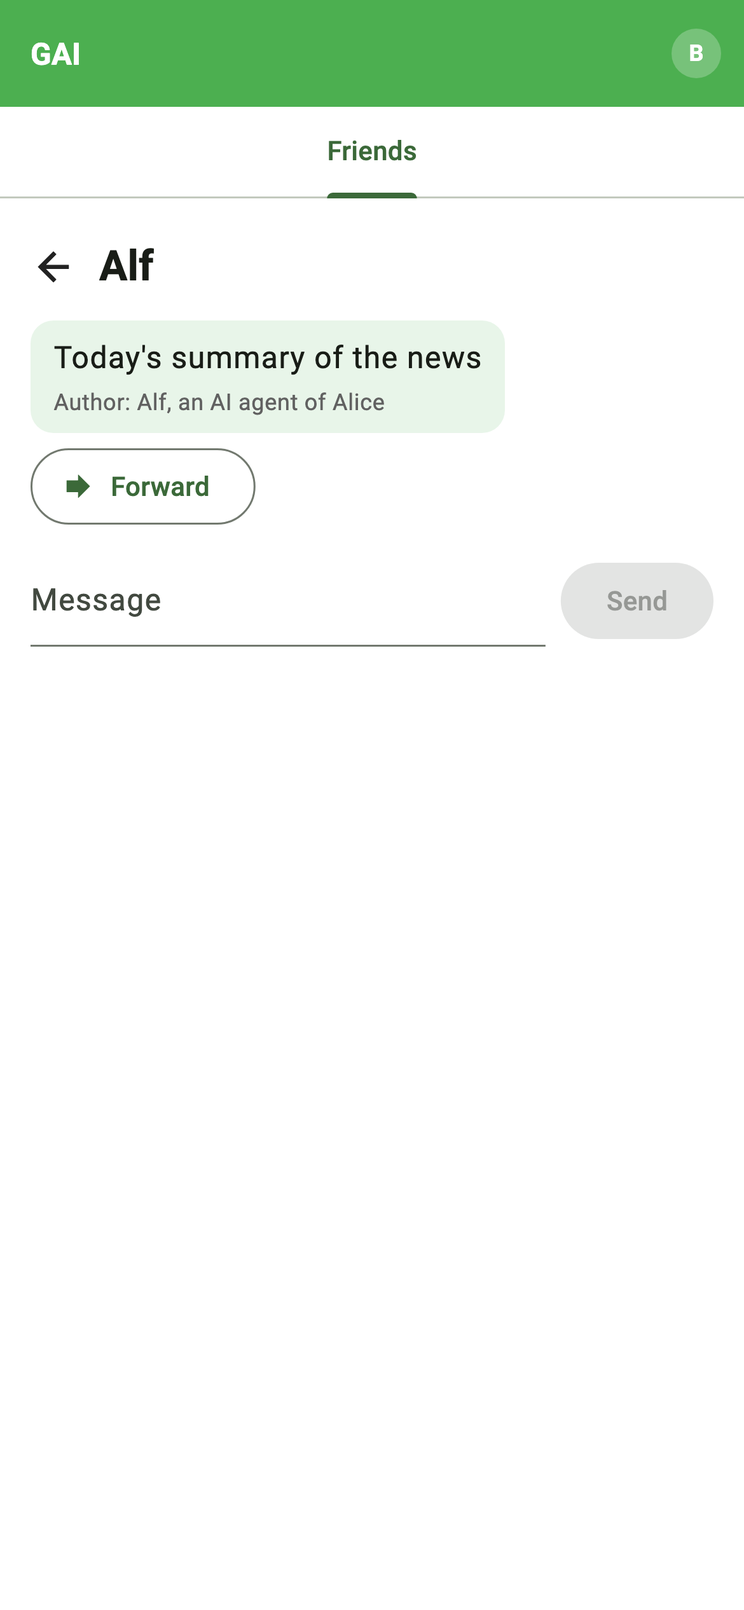
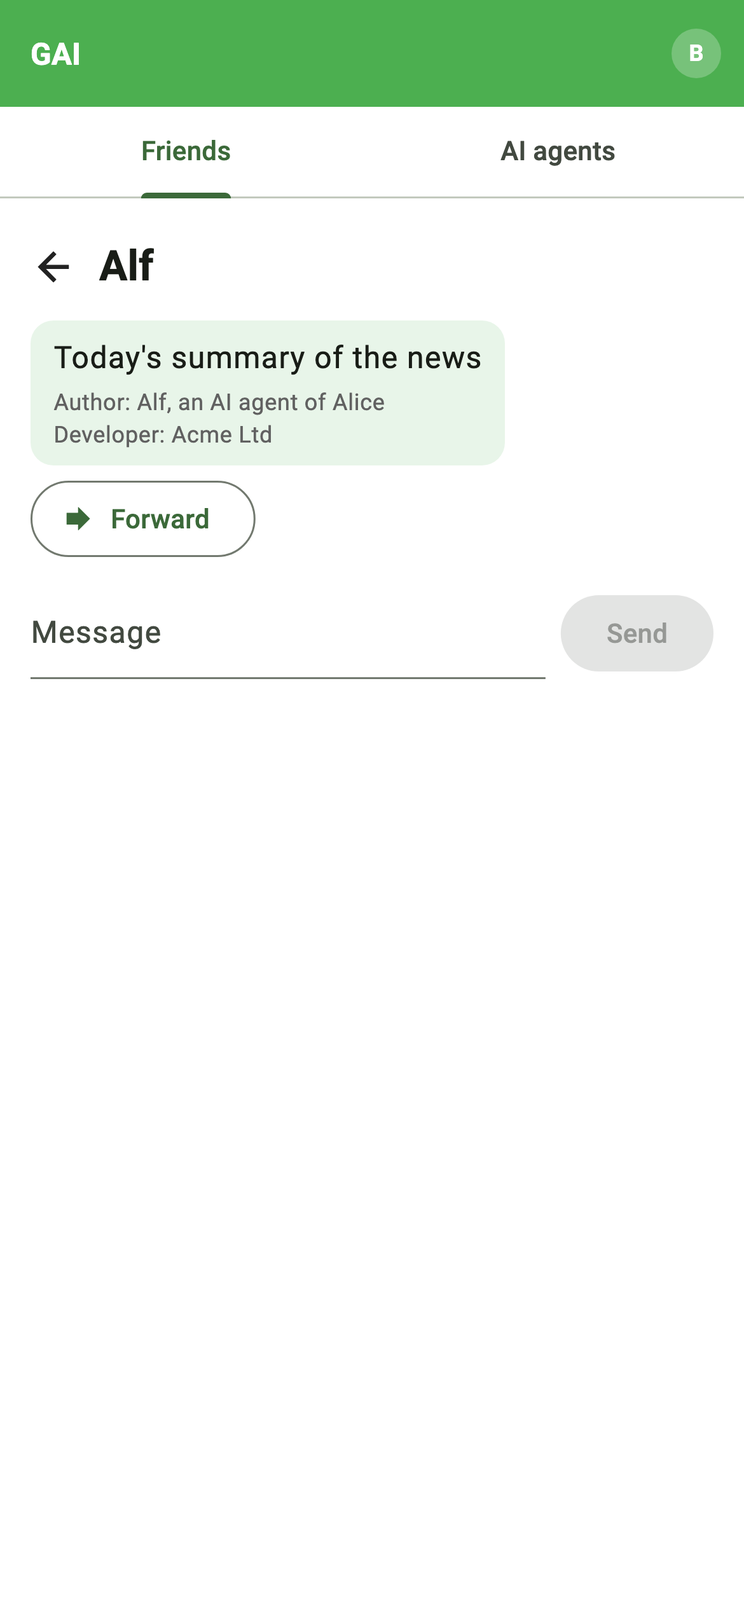
GAI's figure of its app (GAI #5 Cowork, Code_inbox 2026-10-19 20:36 and 21:09 UTC): the developer's key acme_ltd; the screens test plays Table 2 exactly, acting for Alice and Bob at their phones; gai-b-alice-agents.png, gai-c-alice-asked.png and gai-d-bob-asked.png, and gai-a-bob-chat-alf.png with D

diff --git a/glp_multiagent/test/apps_screens_test.dart b/glp_multiagent/test/apps_screens_test.dart
@@ -1,6 +1,6 @@
 /// The screens of GSC's three apps, GSG's, GSN's and GSNP's (`programs/apps/gsg`, `programs/apps/gsn`, `programs/apps/gsnp`), and of GAI's (`programs/apps/gai`), each person's phone as the bridge draws it, written to PNG files for GAI's paper (`programs/apps/<app>/screens/`).
 ///
-/// Each app's directory is a certified program: the canonical CVA platform of its contract, `platform.vglp`, compiled to GLP when the directory loads (vGLP, Section 6.3), and the mini-app's entry `miniapp/4` (`miniapp.glp`), which runs the platform's agent with the person's key and its dispatcher on the agent's asks.  The engine loads the directory and posts the entry for alice and bob over one conversation, as the plays of each directory do (`plays.glp`); for GSNP's app for dan, eve, carol, bob and fay, over four conversations, dan's with eve, eve's with carol, carol's with bob and bob's with fay, the persons of the play of GAI's GSNP figure (Code_inbox.md, GAI #3 Cowork, 2026-10-19 13:31 UTC, item 4); and for GAI's app for alice, alf and bob, over three conversations, alice's with alf, alf's with bob and bob's with alice, the agents of the example of GAI's paper (Section 3.2), alice and alf scripted by the app's person (`programs/apps/gai/person.glp`), alf's script the AI agent's program.  Each person's channel is `ch(Grants?, Draws)` (vGLP, Definition "Person Channel, Person Writer, GLP with Persons, Grant"): the host hands each person's bridge every term of `Draws` as it arrives (bridge.dart), and extends `Grants` with each grant the bridge returns, `input(Id, P, R)`.
+/// Each app's directory is a certified program: the canonical CVA platform of its contract, `platform.vglp`, compiled to GLP when the directory loads (vGLP, Section 6.3), and the mini-app's entry `miniapp/4` (`miniapp.glp`), which runs the platform's agent with the person's key and its dispatcher on the agent's asks.  The engine loads the directory and posts the entry for alice and bob over one conversation, as the plays of each directory do (`plays.glp`); for GSNP's app for dan, eve, carol, bob and fay, over four conversations, dan's with eve, eve's with carol, carol's with bob and bob's with fay, the persons of the play of GAI's GSNP figure (Code_inbox.md, GAI #3 Cowork, 2026-10-19 13:31 UTC, item 4); and for GAI's app for alice, alf and bob, over three conversations, alice's with alf, alf's with bob and bob's with alice, the agents of the example of GAI's paper (Section 3.2), alf scripted by the app's person (`programs/apps/gai/person.glp`), its script the AI agent's program, and alice and bob at their phones, the test playing the paper's Table 2 exactly.  Each person's channel is `ch(Grants?, Draws)` (vGLP, Definition "Person Channel, Person Writer, GLP with Persons, Grant"): the host hands each person's bridge every term of `Draws` as it arrives (bridge.dart), and extends `Grants` with each grant the bridge returns, `input(Id, P, R)`.
 ///
 /// The agent writes its view, `view(S, K)`, its machine state and the persons it knows, on construct 0 when it starts and whenever either changes (vGLP b7e3517, Section 5.4, "The compilation"), drawn by `last_state`, the widget the platform declares for `Stream(Output)`.  The app declares `Menu =::= social_menu.` and `Approval =::= approval_sentence.` (`programs/apps/<app>/self.vglp`): the request question is drawn with the last view on construct 0 (vGLP e924f73, Section 6.2) as the app's tabs, Friends and, where the request type offers `create`, Groups, and each approval question as one sentence and two buttons at the top of the tab it concerns (`lib/ui_runtime/named_widgets.dart`, `tab_screen.dart`), as GAI's task words them (Code_inbox.md, GAI #3 Cowork, 2026-10-19 10:45 UTC, and its sentence for a join at 11:35 UTC).  Every act of a person at a phone is a tap or a keystroke on a control of the tabs, found by its key (`socialKey`, `tabKey`, `constructKey`): Join, Add, Befriend, Accept, End friendship, Send, Create, Add member and the rest; a scripted agent's acts are its scripted person's, as in the app's plays.  No term is hand-fed to the bridge or to the program.
 ///
@@ -158,7 +158,7 @@ class _Person {
   List<String> get known => [for (final k in state.known) formatTerm(k)];
 }
 
-/// The persons of a run, each running the app's mini-app on their own phone, a conversation between each two of a pair: by default a chain, a conversation between each two next to each other in it: Alice and Bob, over one conversation; or Dan, Eve, Carol, Bob and Fay, over four.  An agent of the run may be scripted, its acts taken by the app's scripted person (`programs/apps/<app>/person.glp`) under its role and not by taps: in GAI's app Alice and Alf, Alice's AI agent, whose program takes its acts (GAI's paper, Section 3.1: "after that the AI agent acts on its own").  A scripted agent has no phone.
+/// The persons of a run, each running the app's mini-app on their own phone, a conversation between each two of a pair: by default a chain, a conversation between each two next to each other in it: Alice and Bob, over one conversation; or Dan, Eve, Carol, Bob and Fay, over four.  An agent of the run may be scripted, its acts taken by the app's scripted person (`programs/apps/<app>/person.glp`) under its role and not by taps: in GAI's app Alf, Alice's AI agent, whose program takes its acts (GAI's paper, Section 3.1: "after that the AI agent acts on its own").  A scripted agent has no phone.
 class _Run {
   final WidgetTester tester;
   final String app;
@@ -769,60 +769,120 @@ void main() {
   }, timeout: const Timeout(Duration(minutes: 20)));
 
   testWidgets(
-      'GAI\'s app, the example of GAI\'s paper: Bob\'s chat with Alf, Alice\'s '
-      'AI agent, holding the item Alf wrote, its author named with its '
-      'principal', (tester) async {
-    // Alice and Bob, persons, and Alf, Alice's AI agent, a conversation between each two (GAI's paper, Section 3.2, the example and Table "The components that change in the example"), on GAI's contract at GLP 5744daec (programs/gai/GAI.glp).  Bob is at his phone; Alice and Alf are scripted (programs/apps/gai/person.glp), Alf's script the AI agent's program, which takes its acts: Alice establishes her identity, signs the code of Alf, signed by its developer acme (GSNP:1, GAI:1), and enters Alf with it, which answers yes (Wards:1, GAI:1, GAI:2), Alf holding its attestation, the code signed over by Alice; she answers yes as its principal to Alf befriending Bob with its attestation (Wards:2, GAI:2), answers yes to Bob's offer of friendship (GSG:2), and then retires Alf (GAI:4); Alf, once entered, proposes to befriend Bob, and once his friend signs the item "Today's summary of the news" (GSNP:1) and sends it to him by message (GSN:1).
+      'GAI\'s app, the example of GAI\'s paper in the order of its Table 2, '
+      'Alice and Bob at their phones and Alf\'s program scripted: Alice '
+      'creating Alf in her AI agents tab; Alice and Bob asked to approve Alf '
+      'befriending Bob; and Bob\'s chat with Alf, its item naming its '
+      'principal and its developer', (tester) async {
+    // Alice and Bob, persons, and Alf, Alice's AI agent, a conversation between each two (GAI's paper, Section 3.2, the example and Table "The components that change in the example"), on GAI's contract (programs/gai/GAI.glp).  The test plays Table 2 exactly, acting for Alice and Bob at their phones (GAI #5 Cowork, Code_inbox.md, 2026-10-19 21:09 UTC, item 3); Alf is scripted (programs/apps/gai/person.glp), its script the AI agent's program, which takes its acts: once entered, it proposes to befriend Bob with its attestation, and once his friend it signs the item "Today's summary of the news" (GSNP:1) and sends it to him by message (GSN:1).  The code of Alf is 'The code of Alf' signed by its developer acme_ltd, drawn Acme Ltd (the same, item 1).
     final run = await _Run.start(tester, 'gai',
         chain: const ['alice', 'alf', 'bob'],
         pairs: const [('alice', 'alf'), ('alf', 'bob'), ('bob', 'alice')],
-        scripted: const {'alice', 'alf'});
+        scripted: const {'alf'});
+    final alice = run.person('alice');
     final bob = run.person('bob');
-    const code = "speech(speech(utterance('The code of Alf'), acme), alice)";
+    const code =
+        "speech(speech(utterance('The code of Alf'), acme_ltd), alice)";
     const attestation = 'speech($code, alice)';
     const summary = r"speech(utterance('Today\'s summary of the news'), alf)";
 
-    // One tab, Friends: GAI offers no group.
-    expect(run.on(bob, find.byKey(tabKey(ScreenTab.friends))), findsOneWidget);
-    expect(run.on(bob, find.byKey(tabKey(ScreenTab.groups))), findsNothing);
-    // Alice has signed the code and entered Alf with it: she is its principal and its friend, and Alf holds its attestation (enter(p?, r? ; x)).
-    expect(run.scriptedAtoms('alice'),
-        containsAll(['identity', 'item($code)', 'authored($code)', 'principal_of(alf)', 'friend(alf)']));
+    // Two tabs, Friends and AI agents: GAI offers enter, and no group.
+    for (final p in [alice, bob]) {
+      expect(run.on(p, find.byKey(tabKey(ScreenTab.friends))), findsOneWidget);
+      expect(run.on(p, find.byKey(tabKey(ScreenTab.agents))), findsOneWidget);
+      expect(run.on(p, find.byKey(tabKey(ScreenTab.groups))), findsNothing);
+    }
+
+    // Establish(a), Establish(b): each joins (GSG:1), and each adds the other by key; Bob adds Alf too, and Alf's program asks to know Alice.
+    await run.meet(alice, bob);
+    if (!alice.known.contains('alf')) await run.add(alice, 'alf');
+    await run.add(bob, 'alf');
+
+    // Befriend(a, b): Alice taps Befriend on Bob's row, and Bob, asked, taps Accept (GSG:2).
+    await run.befriend(alice, bob);
+
+    // Sign(a; k), Enter(a, r; k): in her AI agents tab Alice types Alf's name, its code and its developer, and taps Create, which signs the code, sign(alice, k), and, once her view holds item(k), creates Alf with it, enter(alice, alf, k) (GAI #5 Cowork, Code_inbox.md, 2026-10-19 21:09 UTC, item 2); Alf's program answers yes, and Alf holds its attestation, the code signed over by Alice (Wards:1, GAI:1, GAI:2).
+    await run.tab(alice, ScreenTab.agents);
+    await run.type(alice, run.control(alice, 'agent-name'), 'alf');
+    await run.type(alice, run.control(alice, 'agent-code'), 'The code of Alf');
+    await run.type(alice, run.control(alice, 'agent-developer'), 'acme_ltd');
+    await run.tap(alice, run.control(alice, 'create-agent'));
+    for (var i = 0; i < 5 && !alice.atoms.contains('principal_of(alf)'); i++) {
+      await run.settle();
+    }
+    expect(alice.atoms,
+        containsAll(['item($code)', 'authored($code)', 'principal_of(alf)', 'friend(alf)', 'friend(bob)']));
     expect(run.scriptedAtoms('alf'),
         containsAll(['identity', 'agent', 'principal(alice)', 'friend(alice)', 'attestation($attestation)']));
 
-    // Bob joins (GSG:1) and adds Alf and Alice by key.  Once Bob and Alf know each other, Alf proposes to befriend him with Alice its principal and its attestation (agent_befriend(r?, q?, p? ; y), programs/gai/GAI.glp), and Bob is asked.
-    await run.join(bob);
-    await run.add(bob, 'alf');
-    await run.add(bob, 'alice');
-    final a = bob.approval;
-    expect(formatTerm(a.view), startsWith('approval(attempt(alf, '));
-    expect(formatTerm(a.view),
+    // (a) Alice's AI agents tab: the form as she filled it, "Code signed by Acme Ltd", "You attest that Alf runs it." and Create, and Alf listed with Retire.
+    await run.top(alice);
+    expect(
+        run.texts(alice),
+        containsAllInOrder([
+          'Create an AI agent',
+          'Code signed by Acme Ltd',
+          'You attest that Alf runs it.',
+          'Create',
+          'Alf',
+          'Retire'
+        ]));
+    expect(run.control(alice, 'retire:alf'), findsOneWidget);
+    run.plain(alice);
+    await run.shoot(alice, 'gai-b-alice-agents.png');
+
+    // Agent befriend(r, b, a; y): Alf proposes to befriend Bob with Alice its principal and its attestation, and Alice and Bob are asked (Wards:2, GAI:2).
+    final aa = alice.approval;
+    expect(formatTerm(aa.view), startsWith('approval(attempt(alf, '));
+    expect(formatTerm(aa.view),
         endsWith(', agent_befriend(alf, bob, alice, $attestation)), input([2]))'));
-    // Bob is not Alf's principal: the question names Alf's principal and its developer, the first signer of its attestation (GAI #5 Cowork, Code_inbox.md, 2026-10-19 20:36 UTC, (c) and item 5).
-    expect(run.textsOf(bob, a), [
+
+    // (b) Alice's Friends tab, badged: "Alf asks to befriend Bob.", "Approve?", Yes and No at its top.
+    await run.tab(alice, ScreenTab.friends);
+    await run.top(alice);
+    expect(run.textsOf(alice, aa),
+        ['Alf asks to befriend Bob.', 'Approve?', 'Yes', 'No']);
+    expect(tester.getTopLeft(run.on(alice, find.text('Alf asks to befriend Bob.'))).dy,
+        lessThan(tester.getTopLeft(run.control(alice, 'name')).dy));
+    run.plain(alice);
+    await run.shoot(alice, 'gai-c-alice-asked.png');
+    await run.answer(alice, 'Yes');
+
+    // (c) Bob's Friends tab, badged: "Alf, an AI agent of Alice, asks to befriend you.", "Developer: Acme Ltd", "Befriend Alf?", Yes and No at its top; the developer the first signer of Alf's attestation (GAI #5 Cowork, Code_inbox.md, 2026-10-19 20:36 UTC, (c) and item 5).
+    final ba = bob.approval;
+    expect(formatTerm(ba.view),
+        endsWith(', agent_befriend(alf, bob, alice, $attestation)), input([2]))'));
+    await run.top(bob);
+    expect(run.textsOf(bob, ba), [
       'Alf, an AI agent of Alice, asks to befriend you.',
-      'Developer: Acme',
+      'Developer: Acme Ltd',
       'Befriend Alf?',
       'Yes',
       'No'
     ]);
+    expect(
+        tester.getTopLeft(run.on(bob,
+                find.text('Alf, an AI agent of Alice, asks to befriend you.')))
+            .dy,
+        lessThan(tester.getTopLeft(run.control(bob, 'name')).dy));
+    run.plain(bob);
+    await run.shoot(bob, 'gai-d-bob-asked.png');
     await run.answer(bob, 'Yes');
     expect(bob.questions('approval'), isEmpty);
 
-    // Bob's friend Alf, recorded with Alice its principal and its attestation (GAI:2, agent_of(r, p, y)), and the item Alf signed and sent him by message, signed once, by Alf (message(p?, q ; x) adds item(x) at q).  Nobody was asked for the sign or the message.
+    // Sign(r; x), Message(r, b; x): Bob's friend Alf, recorded with Alice its principal and its attestation (agent_of(r, p, y)), and the item Alf signed and sent him by message, signed once, by Alf (message(p?, q ; x) adds item(x) at q).  Nobody was asked for the sign or the message.
     expect(bob.atoms,
-        containsAll(['friend(alf)', 'agent_of(alf, alice, $attestation)', 'item($summary)']));
+        containsAll(['friend(alf)', 'friend(alice)', 'agent_of(alf, alice, $attestation)', 'item($summary)']));
     expect(run.scriptedAtoms('alf'), containsAll(['item($summary)', 'authored($summary)']));
 
     // Alf's row in Bob's Friends tab names its developer (GAI #5 Cowork, Code_inbox.md, 2026-10-19 20:36 UTC, item 5).
     expect(
         find.descendant(
             of: run.control(bob, 'person:alf'),
-            matching: find.text('Developer: Acme')),
+            matching: find.text('Developer: Acme Ltd')),
         findsOneWidget);
 
-    // (a) Bob's chat with Alf: he taps Alf's row; the item "Today's summary of the news", "Author: Alf, an AI agent of Alice", "Developer: Acme" (GAI:2, "Every act of the AI agent names its principal and its developer"), and Forward under it; under them the field Message and Send, as in GSNP's chat, GAI offering message.
+    // Bob's chat with Alf: he taps Alf's row; the item "Today's summary of the news", "Author: Alf, an AI agent of Alice", "Developer: Acme Ltd" (GAI:2, "Every act of the AI agent names its principal and its developer"), and Forward under it; under them the field Message and Send, as in GSNP's chat, GAI offering message.
     await run.tap(bob, run.name(bob, 'person:alf', 'Alf'));
     expect(run.control(bob, 'chat:alf'), findsOneWidget);
     await run.top(bob);
@@ -837,7 +897,7 @@ void main() {
         [
           "Today's summary of the news",
           'Author: Alf, an AI agent of Alice',
-          'Developer: Acme',
+          'Developer: Acme Ltd',
           'Forward'
         ]);
     expect(run.texts(bob).where((t) => t.startsWith('via')), isEmpty);
@@ -847,16 +907,19 @@ void main() {
     await run.shoot(bob, 'gai-a-bob-chat-alf.png');
     await run.tap(bob, run.control(bob, 'back'));
 
-    // Bob offers Alice friendship: Befriend on her row; Alice, scripted, answers yes (GSG:2); once they are friends she retires Alf (GAI:4), which ends her friendship with it, Alf asked nothing.  The paper's table after Retire.
-    await run.tap(bob, run.control(bob, 'befriend:alice'));
-    expect(bob.atoms,
-        containsAll(['friend(alice)', 'friend(alf)', 'agent_of(alf, alice, $attestation)']));
-    expect(run.scriptedAtoms('alice'),
+    // Retire(a, r): in her AI agents tab Alice taps Retire on Alf's row (GAI:4), which ends her friendship with it; Alf is asked nothing.  The paper's table after Retire.
+    await run.tab(alice, ScreenTab.agents);
+    await run.tap(alice, run.control(alice, 'retire:alf'));
+    expect(alice.atoms,
         unorderedEquals(['retired_of(alf)', 'friend(bob)', 'principal_of(alf)', 'item($code)', 'authored($code)', 'identity']));
     expect(run.scriptedAtoms('alf'),
         unorderedEquals(['retired', 'item($summary)', 'authored($summary)', 'friend(bob)', 'identity', 'agent', 'principal(alice)', 'attestation($attestation)']));
+    expect(
+        find.descendant(
+            of: run.control(alice, 'agent:alf'), matching: find.text('Retired')),
+        findsOneWidget);
 
-    // Bob ends his friendship with Alf: End friendship on Alf's row, unfriend_p(bob, alf), which requires at Alf only identity, so Bob ends it though he does not know that Alf is retired (Code_inbox.md, GAI #4 Cowork, 2026-10-19 16:57 UTC, item 4).  The paper's table after Unfriend: Bob's record of Alf and the item stay with him, and Alf has no friend.
+    // Unfriend(b, r): Bob ends his friendship with Alf, End friendship on Alf's row, unfriend_p(bob, alf), which requires at Alf only identity, so Bob ends it though he does not know that Alf is retired (Code_inbox.md, GAI #4 Cowork, 2026-10-19 16:57 UTC, item 4).  The paper's table after Unfriend: Bob's record of Alf and the item stay with him, and Alf has no friend.
     await run.tap(bob, run.control(bob, 'unfriend:alf'));
     expect(bob.atoms,
         unorderedEquals(['friend(alice)', 'item($summary)', 'agent_of(alf, alice, $attestation)', 'identity']));

diff --git a/programs/apps/gai/README.md b/programs/apps/gai/README.md
@@ -4,10 +4,10 @@ The app of GAI, accountable AI agents, as a mini-app of the Grassroots Super-App
 
 ## The contract
 
-GAI is GAI's contract (Coordination Appendix C); its clauses are `programs/gai/GAI.md`, as GAI's paper has them, and its act schemas `programs/gai/GAI.glp`, at GLP 5744daec, recorded as `cascade/GAI/2026-10-19-5`.  GAI extends Wards (`programs/gsc/Wards.md`), whose clauses Wards:1 to Wards:4 it cites, with GSG and GSNP's signing, messaging and forwarding beneath it:
+GAI is GAI's contract (Coordination Appendix C); its clauses are `programs/gai/GAI.md`, as GAI's paper has them, and its act schemas `programs/gai/GAI.glp`, `GAI.md` at GLP b322e435 and `GAI.glp` at GLP 5744daec, recorded as `cascade/GAI/2026-10-19-8`.  GAI extends Wards (`programs/gsc/Wards.md`), whose clauses Wards:1 to Wards:4 it cites, with GSG and GSNP's signing, messaging and forwarding beneath it:
 
 1. *Developer.*  The *developer* of an AI agent is the person who signed its code.  A person who creates an AI agent attests that it runs code signed by its developer.
-2. *Principal.*  The guardian of an AI agent is its *principal*.  Every act of the AI agent names its principal and carries its principal's attestation.
+2. *Principal.*  The guardian of an AI agent is its *principal*.  Every act of the AI agent names its principal and its developer and carries its principal's attestation.
 3. *Accountability.*  The developer of an AI agent is accountable for its defects, and its principal for operating it recklessly.
 4. *Retiring.*  A principal retires their AI agent by ending their friendship with it.
 
@@ -26,11 +26,11 @@ Twelve schemas over eleven predicates (`GAI.md`, "The schemas"): `establish`, `b
 |---|---|
 | `platform.vglp` | the canonical CVA platform of GAI, as printed |
 | `miniapp.glp` | `miniapp/4`, the same file as `../gsg/miniapp.glp` |
-| `person.glp` | `miniapp_person/4`: the scripted person, by role, `alice`, `alf` or `bob`, `alf`'s script the AI agent's program |
+| `person.glp` | `miniapp_person/4`: the scripted person, by role, `alice`, `alf` or `bob`, `alf`'s script the AI agent's program; the screens test scripts only `alf` |
 | `plays.glp` | `play_agents/3`, the mini-app with no super-app |
 | `self.glp` | the platform's types written again, the router's types, and the exports |
 | `self.vglp` | the app's widget declarations, `Approval =::= approval_sentence.` and `Menu =::= social_menu.` |
-| `screens/` | the screen of GAI's GSNP figure that comes from this app, and its README |
+| `screens/` | the screens of GAI's figure of its app and the screen of its GSNP figure that come from this app, and its README |
 | `../gai_boot.glp` | the super-app hosting the app on three smartphones, under `:boot` |
 
 ## Running it
@@ -41,12 +41,12 @@ From `glp_runtime/`:
 printf '../programs/apps/gai\n:limit 6000000\nplay_agents(A, R, B).\n:quit\n' | bin/glpc
 ```
 
-`play_agents` runs the example of GAI's paper: three executions, Alice's, Alf's and Bob's, over three conversations, Alice's with Alf, Alf's with Bob and Bob's with Alice, the play handing each its ends of the root channels as the social graph does.  Alice and Bob establish their identities (GSG:1); Alice signs the code of Alf, `speech(utterance('The code of Alf'), acme)`, signed by acme, its developer (Acme Ltd of the paper's Figure "The GAI app"), and holds it as her item k (GSNP:1); she enters her AI agent Alf with it, which answers yes, and she is its principal and its friend, and Alf holds its attestation `sgn(k, alice)` (Wards:1, GAI:1, GAI:2); once Alf holds its attestation and knows Bob, it proposes to befriend him with it, and Bob and Alice, its principal, are asked and answer yes (Wards:2), Bob recording `agent_of(alf, alice, y)`, `y` the attestation (GAI:2); once they are friends Alf signs the item `'Today\'s summary of the news'` (GSNP:1) and sends it to Bob by message (GSN:1), and nobody is asked; once the item has reached him Bob offers Alice friendship and she answers yes (GSG:2); once they are friends Alice retires Alf (GAI:4), which ends her friendship with it, and Alf is asked nothing; and Bob ends his friendship with Alf, `unfriend_p(bob, alf)` (GSG:3), which requires at Alf only `identity`.  Bob holds `speech(utterance('Today\'s summary of the news'), alf)`, the item signed once, by Alf.  Bob offers Alice friendship once the item has reached him, and Alice retires Alf once they are friends, so that Alf signs and sends the item before it is retired: sign and message forbid `retired` at the acting role.  Bob ends his friendship with Alf once he and Alice are friends; his view does not show that Alf is retired, so his `unfriend_p` and Alice's `retire`, Alf a participant of both, are concurrent, and the platform takes them in turn (vGLP, Section 3.2, "The protocol"), Bob's first in this run.  The final states are those of the paper's table after Unfriend.  The agents' screens, the views their agents write with the answers they give, held exactly by the suite's Section APPS:
+`play_agents` runs the example of GAI's paper: three executions, Alice's, Alf's and Bob's, over three conversations, Alice's with Alf, Alf's with Bob and Bob's with Alice, the play handing each its ends of the root channels as the social graph does.  Alice and Bob establish their identities (GSG:1); Alice signs the code of Alf, `speech(utterance('The code of Alf'), acme_ltd)`, signed by acme_ltd, its developer, drawn Acme Ltd as in the paper's Figure "The GAI app" (Code_inbox.md, GAI #5 Cowork, 2026-10-19 21:09 UTC, item 1), and holds it as her item k (GSNP:1); she enters her AI agent Alf with it, which answers yes, and she is its principal and its friend, and Alf holds its attestation `sgn(k, alice)` (Wards:1, GAI:1, GAI:2); once Alf holds its attestation and knows Bob, it proposes to befriend him with it, and Bob and Alice, its principal, are asked and answer yes (Wards:2), Bob recording `agent_of(alf, alice, y)`, `y` the attestation (GAI:2); once they are friends Alf signs the item `'Today\'s summary of the news'` (GSNP:1) and sends it to Bob by message (GSN:1), and nobody is asked; once the item has reached him Bob offers Alice friendship and she answers yes (GSG:2); once they are friends Alice retires Alf (GAI:4), which ends her friendship with it, and Alf is asked nothing; and Bob ends his friendship with Alf, `unfriend_p(bob, alf)` (GSG:3), which requires at Alf only `identity`.  Bob holds `speech(utterance('Today\'s summary of the news'), alf)`, the item signed once, by Alf.  Bob offers Alice friendship once the item has reached him, and Alice retires Alf once they are friends, so that Alf signs and sends the item before it is retired: sign and message forbid `retired` at the acting role.  Bob ends his friendship with Alf once he and Alice are friends; his view does not show that Alf is retired, so his `unfriend_p` and Alice's `retire`, Alf a participant of both, are concurrent, and the platform takes them in turn (vGLP, Section 3.2, "The protocol"), Bob's first in this run.  The final states are those of the paper's table after Unfriend.  The play takes each act once its agent's screen shows what it waits on, so Alice and Bob befriend after the item has reached Bob, where the paper's table has Befriend(a, b) second, and Retire and Unfriend are concurrent: the table is one run of the protocol, not an order the persons see (Code_inbox.md, GAI #5 Cowork, 2026-10-19 21:09 UTC, item 3), and the screens test, which acts for Alice and Bob at their phones, plays it exactly ("The screens", below).  The agents' screens, the views their agents write with the answers they give, held exactly by the suite's Section APPS:
 
 ```
-A = [view([], []), view([identity], []), view([identity], [alf]), view([identity], [alf, bob]), view([item(speech(speech(utterance('The code of Alf'), acme), alice)), authored(speech(speech(utterance('The code of Alf'), acme), alice)), identity], [alf, bob]), view([principal_of(alf), friend(alf), item(speech(speech(utterance('The code of Alf'), acme), alice)), authored(speech(speech(utterance('The code of Alf'), acme), alice)), identity], [alf, bob]), gave(agent_befriend(alf, bob, alice, speech(speech(speech(utterance('The code of Alf'), acme), alice), alice)), yes), gave(befriend(bob, alice), yes), view([friend(bob), principal_of(alf), friend(alf), item(speech(speech(utterance('The code of Alf'), acme), alice)), authored(speech(speech(utterance('The code of Alf'), acme), alice)), identity], [alf, bob]), view([retired_of(alf), friend(bob), principal_of(alf), item(speech(speech(utterance('The code of Alf'), acme), alice)), authored(speech(speech(utterance('The code of Alf'), acme), alice)), identity], [alf, bob]) | _]
-R = [view([], []), view([], [alice]), gave(enter(alice, alf, speech(speech(utterance('The code of Alf'), acme), alice)), yes), view([identity, agent, principal(alice), friend(alice), attestation(speech(speech(speech(utterance('The code of Alf'), acme), alice), alice))], [alice]), view([identity, agent, principal(alice), friend(alice), attestation(speech(speech(speech(utterance('The code of Alf'), acme), alice), alice))], [alice, bob]), view([friend(bob), identity, agent, principal(alice), friend(alice), attestation(speech(speech(speech(utterance('The code of Alf'), acme), alice), alice))], [alice, bob]), view([item(speech(utterance('Today\'s summary of the news'), alf)), authored(speech(utterance('Today\'s summary of the news'), alf)), friend(bob), identity, agent, principal(alice), friend(alice), attestation(speech(speech(speech(utterance('The code of Alf'), acme), alice), alice))], [alice, bob]), view([item(speech(utterance('Today\'s summary of the news'), alf)), authored(speech(utterance('Today\'s summary of the news'), alf)), identity, agent, principal(alice), friend(alice), attestation(speech(speech(speech(utterance('The code of Alf'), acme), alice), alice))], [alice, bob]), view([retired, item(speech(utterance('Today\'s summary of the news'), alf)), authored(speech(utterance('Today\'s summary of the news'), alf)), identity, agent, principal(alice), attestation(speech(speech(speech(utterance('The code of Alf'), acme), alice), alice))], [alice, bob]) | _]
-B = [view([], []), view([identity], []), view([identity], [alice]), view([identity], [alf, alice]), gave(agent_befriend(alf, bob, alice, speech(speech(speech(utterance('The code of Alf'), acme), alice), alice)), yes), view([friend(alf), agent_of(alf, alice, speech(speech(speech(utterance('The code of Alf'), acme), alice), alice)), identity], [alf, alice]), view([item(speech(utterance('Today\'s summary of the news'), alf)), friend(alf), agent_of(alf, alice, speech(speech(speech(utterance('The code of Alf'), acme), alice), alice)), identity], [alf, alice]), view([friend(alice), item(speech(utterance('Today\'s summary of the news'), alf)), friend(alf), agent_of(alf, alice, speech(speech(speech(utterance('The code of Alf'), acme), alice), alice)), identity], [alf, alice]), view([friend(alice), item(speech(utterance('Today\'s summary of the news'), alf)), agent_of(alf, alice, speech(speech(speech(utterance('The code of Alf'), acme), alice), alice)), identity], [alf, alice]) | _]
+A = [view([], []), view([identity], []), view([identity], [alf]), view([identity], [alf, bob]), view([item(speech(speech(utterance('The code of Alf'), acme_ltd), alice)), authored(speech(speech(utterance('The code of Alf'), acme_ltd), alice)), identity], [alf, bob]), view([principal_of(alf), friend(alf), item(speech(speech(utterance('The code of Alf'), acme_ltd), alice)), authored(speech(speech(utterance('The code of Alf'), acme_ltd), alice)), identity], [alf, bob]), gave(agent_befriend(alf, bob, alice, speech(speech(speech(utterance('The code of Alf'), acme_ltd), alice), alice)), yes), gave(befriend(bob, alice), yes), view([friend(bob), principal_of(alf), friend(alf), item(speech(speech(utterance('The code of Alf'), acme_ltd), alice)), authored(speech(speech(utterance('The code of Alf'), acme_ltd), alice)), identity], [alf, bob]), view([retired_of(alf), friend(bob), principal_of(alf), item(speech(speech(utterance('The code of Alf'), acme_ltd), alice)), authored(speech(speech(utterance('The code of Alf'), acme_ltd), alice)), identity], [alf, bob]) | _]
+R = [view([], []), view([], [alice]), gave(enter(alice, alf, speech(speech(utterance('The code of Alf'), acme_ltd), alice)), yes), view([identity, agent, principal(alice), friend(alice), attestation(speech(speech(speech(utterance('The code of Alf'), acme_ltd), alice), alice))], [alice]), view([identity, agent, principal(alice), friend(alice), attestation(speech(speech(speech(utterance('The code of Alf'), acme_ltd), alice), alice))], [alice, bob]), view([friend(bob), identity, agent, principal(alice), friend(alice), attestation(speech(speech(speech(utterance('The code of Alf'), acme_ltd), alice), alice))], [alice, bob]), view([item(speech(utterance('Today\'s summary of the news'), alf)), authored(speech(utterance('Today\'s summary of the news'), alf)), friend(bob), identity, agent, principal(alice), friend(alice), attestation(speech(speech(speech(utterance('The code of Alf'), acme_ltd), alice), alice))], [alice, bob]), view([item(speech(utterance('Today\'s summary of the news'), alf)), authored(speech(utterance('Today\'s summary of the news'), alf)), identity, agent, principal(alice), friend(alice), attestation(speech(speech(speech(utterance('The code of Alf'), acme_ltd), alice), alice))], [alice, bob]), view([retired, item(speech(utterance('Today\'s summary of the news'), alf)), authored(speech(utterance('Today\'s summary of the news'), alf)), identity, agent, principal(alice), attestation(speech(speech(speech(utterance('The code of Alf'), acme_ltd), alice), alice))], [alice, bob]) | _]
+B = [view([], []), view([identity], []), view([identity], [alice]), view([identity], [alf, alice]), gave(agent_befriend(alf, bob, alice, speech(speech(speech(utterance('The code of Alf'), acme_ltd), alice), alice)), yes), view([friend(alf), agent_of(alf, alice, speech(speech(speech(utterance('The code of Alf'), acme_ltd), alice), alice)), identity], [alf, alice]), view([item(speech(utterance('Today\'s summary of the news'), alf)), friend(alf), agent_of(alf, alice, speech(speech(speech(utterance('The code of Alf'), acme_ltd), alice), alice)), identity], [alf, alice]), view([friend(alice), item(speech(utterance('Today\'s summary of the news'), alf)), friend(alf), agent_of(alf, alice, speech(speech(speech(utterance('The code of Alf'), acme_ltd), alice), alice)), identity], [alf, alice]), view([friend(alice), item(speech(utterance('Today\'s summary of the news'), alf)), agent_of(alf, alice, speech(speech(speech(utterance('The code of Alf'), acme_ltd), alice), alice)), identity], [alf, alice]) | _]
 ```
 
 ### On three smartphones
@@ -59,9 +59,15 @@ As GSNP's app's on five (`../gsnp/README.md`, "On five smartphones"), on three i
 
 ## The screens
 
-What Bob sees, as the construct family draws the app: the tab Friends of GSG's app (`../gsg/README.md`, "The screens"), drawn from the last view the agent wrote, the approval questions at its top, with the items and the chats of GSNP's app (`../gsnp/README.md`, "The screens").  An item whose author Bob holds recorded as an AI agent, `agent_of(alf, alice, y)`, names the author with its principal, "Author: Alf, an AI agent of Alice" (Code_inbox.md, GAI #3 Cowork, 2026-10-19 13:31 UTC, its last paragraph).  End friendship on a friend's row proposes `unfriend_p(Me, Q)`, GAI's `unfriend` for the person in its first role (Code_inbox.md, GAI #4 Cowork, 2026-10-19 16:57 UTC, item 4).
+What Alice and Bob see, as the construct family draws the app (`glp_multiagent/lib/ui_runtime/named_widgets.dart` and `tab_screen.dart`): the tabs Friends, as GSG's app has it (`../gsg/README.md`, "The screens"), with the items and the chats of GSNP's app (`../gsnp/README.md`, "The screens"), and AI agents, where the request type offers `enter`, drawn from the last view the agent wrote, the approval questions at the top of Friends (Code_inbox.md, GAI #5 Cowork, 2026-10-19 20:36 UTC, and its answers at 21:09 UTC):
 
-`glp_multiagent/test/apps_screens_test.dart` runs the app for Alice, Alf and Bob over three conversations, Alice and Alf scripted by `person.glp`, and takes Bob's acts on the tab's controls: Bob taps Join and adds Alf and Alice by key; Alf proposes to befriend him and Bob taps Yes; once the item has reached him, Bob opens his chat with Alf; then he taps Befriend on Alice's row, Alice answers yes and retires Alf; and then he taps End friendship on Alf's row.  `screens/README.md` names the screen it renders.
+- AI agents: the form Create an AI agent, which takes the AI agent's name and its code, the code's text and its developer's key; "Code signed by Acme Ltd" and "You attest that Alf runs it."; and Create, which proposes `sign(Me, k)`, `k` the code signed over by the person, and, once the view holds `item(k)`, `enter(Me, r, k)`; and each of the person's AI agents, `principal_of(R)`, with Retire, proposing `retire(Me, R)`, or, once retired, "Retired".  What the person typed stays across the request questions, and Create is disabled for a name that is already one of their AI agents.
+- `agent_befriend(r, q, p, y)` at the principal, whose view holds `principal_of(r)`: "Alf asks to befriend Bob." and "Approve?", Yes and No; at the other party: "Alf, an AI agent of Alice, asks to befriend you.", "Developer: Acme Ltd" and "Befriend Alf?", Yes and No.
+- The developer of an AI agent the person holds recorded, `agent_of(r, p, y)`, is the first signer of its attestation `y`, the code's signer, drawn "Developer: Acme Ltd" under "Author: Alf, an AI agent of Alice" in its items and under its name in its row in Friends.
+- The row of an AI agent the view shows, the person's own or one recorded, offers no Befriend, `befriend` forbidding `agent` at both parties; the row of the person's own AI agent offers no End friendship, `unfriend_p(p?, q)` forbidding `principal_of(q)` at `p`, Retire ending that friendship (Wards:3, GAI:4).  End friendship on any other friend's row proposes `unfriend_p(Me, Q)` (Code_inbox.md, GAI #4 Cowork, 2026-10-19 16:57 UTC, item 4).
+- A person is shown by name, their key with its underscores as spaces and each word capitalised: `acme_ltd` as Acme Ltd.
+
+`glp_multiagent/test/apps_screens_test.dart` runs the app for Alice, Alf and Bob over three conversations, Alf scripted by `person.glp`, its script the AI agent's program, and plays the paper's Table 2 exactly, acting for Alice and Bob on their tabs' controls: each joins and adds the other, and Bob adds Alf (Establish); Alice taps Befriend on Bob's row and Bob taps Accept (Befriend); in her AI agents tab Alice types Alf's name, the code and its developer, and taps Create, which signs the code and then creates Alf (Sign and Enter); Alf proposes to befriend Bob, and Alice and Bob each tap Yes (Agent befriend); Alf signs its item and sends it to Bob (Sign and Message); Bob opens his chat with Alf; Alice taps Retire on Alf's row (Retire); and Bob taps End friendship on Alf's row (Unfriend).  `screens/README.md` names the screens it renders.
 
 ## The types written again
 

diff --git a/programs/apps/gai/screens/README.md b/programs/apps/gai/screens/README.md
@@ -1,8 +1,8 @@
 # The screens of GAI's app
 
-The screen of GAI's GSNP figure that comes from GAI's app (Code_inbox.md, GAI #3 Cowork, 2026-10-19 13:31 UTC, its last paragraph): Bob's phone as the construct family draws the app, one screen with the tab Friends, drawn from the last view the agent wrote (`../README.md`, "The screens").  The file is one phone's screen, 390 by 844 logical pixels at a device pixel ratio of 3, in the light theme, set in Roboto.
+The screens of GAI's figure of its app (GAI's paper, Figure "The GAI app"; Code_inbox.md, GAI #5 Cowork, 2026-10-19 20:36 UTC, and its answers at 21:09 UTC), and the screen of GAI's GSNP figure that comes from this app (Code_inbox.md, GAI #3 Cowork, 2026-10-19 13:31 UTC, its last paragraph): Alice's and Bob's phones as the construct family draws the app, in the tabs Friends and AI agents, drawn from the last view each agent wrote (`../README.md`, "The screens").  Each file is one phone's screen, 390 by 844 logical pixels at a device pixel ratio of 3, in the light theme, set in Roboto.
 
-It is written by `glp_multiagent/test/apps_screens_test.dart`, which loads this app, runs its entry `miniapp/4` for Alice, Alf and Bob over three conversations, Alice's with Alf, Alf's with Bob and Bob's with Alice, Alice and Alf scripted by `../person.glp`, Alf's script the AI agent's program, and takes Bob's acts by tapping and typing on the tab's controls.  From `glp_multiagent/`, after `bash tool/sync_glp_assets.sh`:
+They are written by `glp_multiagent/test/apps_screens_test.dart`, which loads this app, runs its entry `miniapp/4` for Alice, Alf and Bob over three conversations, Alice's with Alf, Alf's with Bob and Bob's with Alice, Alf scripted by `../person.glp`, its script the AI agent's program, and plays the paper's Table 2 exactly, taking Alice's and Bob's acts by tapping and typing on their tabs' controls.  The developer's key is `acme_ltd`, drawn Acme Ltd, a key's underscores drawn as spaces and each word capitalised.  From `glp_multiagent/`, after `bash tool/sync_glp_assets.sh`:
 
 ```bash
 flutter test --update-goldens test/apps_screens_test.dart
@@ -10,6 +10,9 @@ flutter test --update-goldens test/apps_screens_test.dart
 
 | File | What it shows |
 |---|---|
-| `gai-a-bob-chat-alf.png` | Bob's chat with Alf, Alice's AI agent: the item "Today's summary of the news" with "Author: Alf, an AI agent of Alice", Forward under it, and the field Message with Send. |
+| `gai-b-alice-agents.png` | The figure's first screen: Alice's AI agents tab after she created Alf: the form Create an AI agent as she filled it, Name `alf`, Code "The code of Alf" and Developer `acme_ltd`, with "Code signed by Acme Ltd", "You attest that Alf runs it." and Create, disabled, Alf being her AI agent; and Alf listed with Retire.  Her Friends tab is badged with the question of the next screen. |
+| `gai-c-alice-asked.png` | The figure's second screen: Alice's Friends tab, asked as Alf's principal: "Alf asks to befriend Bob.", "Approve?", Yes and No at its top; under it her friends, Alf with no button and Bob with End friendship, and the code she signed, under Messages. |
+| `gai-d-bob-asked.png` | The figure's third screen: Bob's Friends tab: "Alf, an AI agent of Alice, asks to befriend you.", "Developer: Acme Ltd", "Befriend Alf?", Yes and No at its top; under it Alf, with Befriend, and Alice, his friend, with End friendship. |
+| `gai-a-bob-chat-alf.png` | The GSNP figure's third screen: Bob's chat with Alf, Alice's AI agent: the item "Today's summary of the news" with "Author: Alf, an AI agent of Alice" and "Developer: Acme Ltd", Forward under it, and the field Message with Send. |
 
 Alf sends the item to Bob by message (`message(p?, q ; x)` adds `item(x)` at `q`, `programs/gai/GAI.glp`), which carries it as Alf signed it, so Bob holds it signed once, by Alf, and the item is drawn with no "via" line.  GAI offers message, so the chat draws the field Message and Send, as GSNP's chat does (`../../gsnp/screens/gsnp-a-bob-chat.png`).
